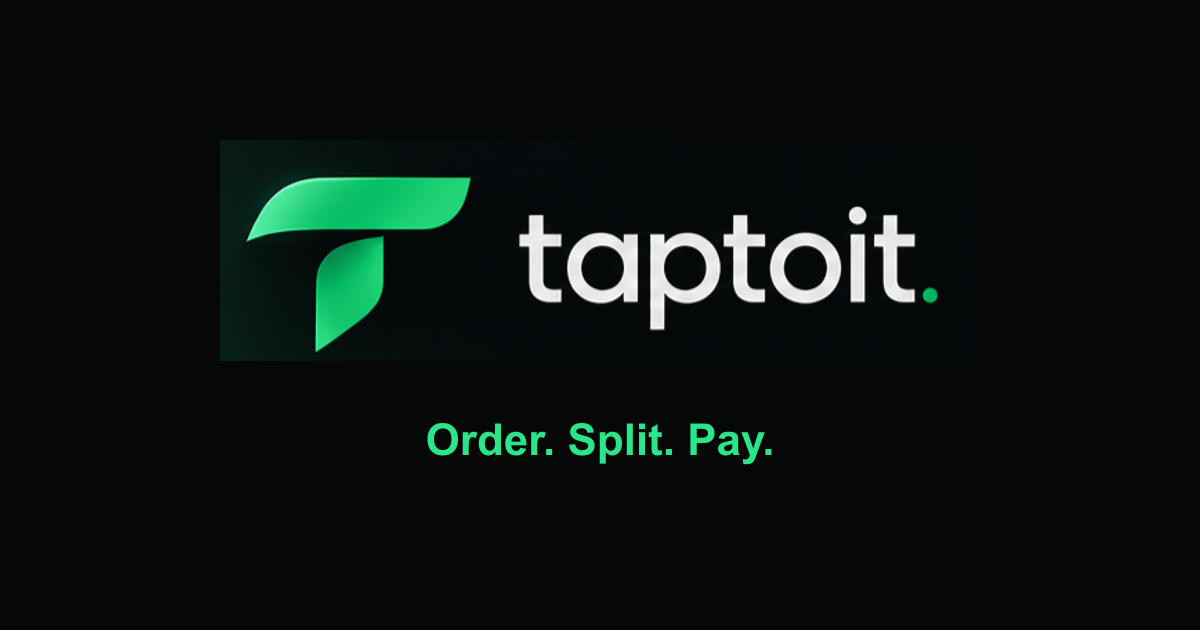
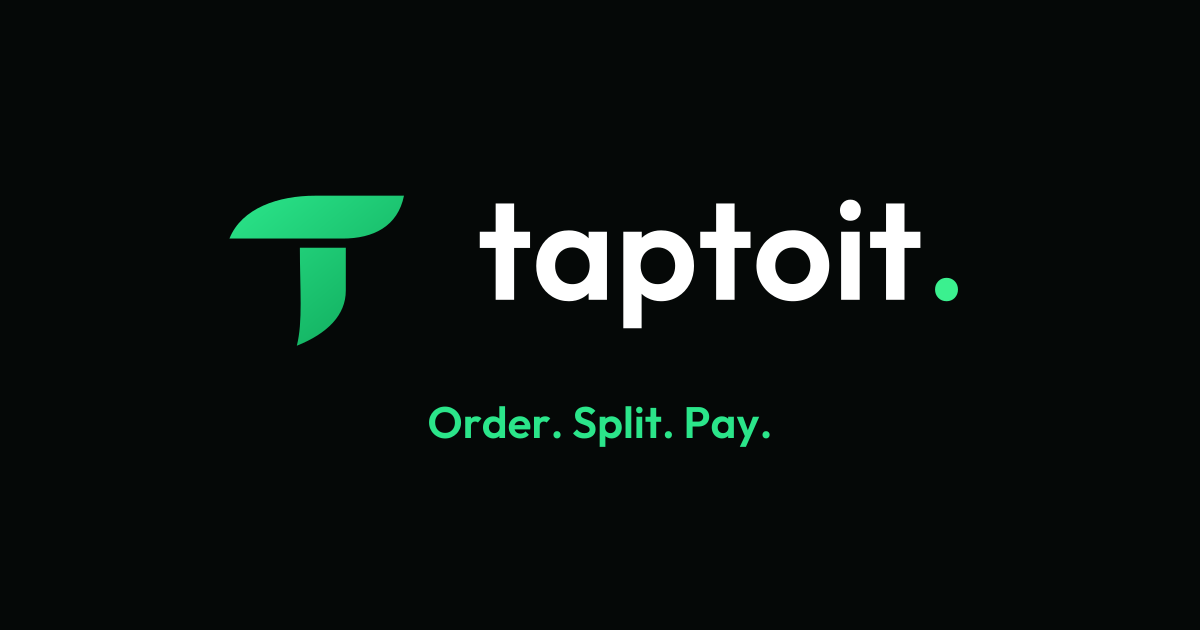
Brand polish (#10)
* Regenerate logo (SVG + PNG, light/dark) and OG image with Outfit outlines

* Raise timeout on client-import scan test; ignore brand-source.png

---------

Changed region(s): [[0.185, 0.2714, 0.8017, 0.573], [0.3392, 0.6333, 0.6475, 0.754]]

diff --git a/src/test/no-server-calls-into-client-modules.test.ts b/src/test/no-server-calls-into-client-modules.test.ts
@@ -74,5 +74,5 @@ describe("server modules never call into 'use client' modules", () => {
     }
 
     expect(offenders, offenders.join("\n")).toEqual([]);
-  });
+  }, 30_000);
 });
